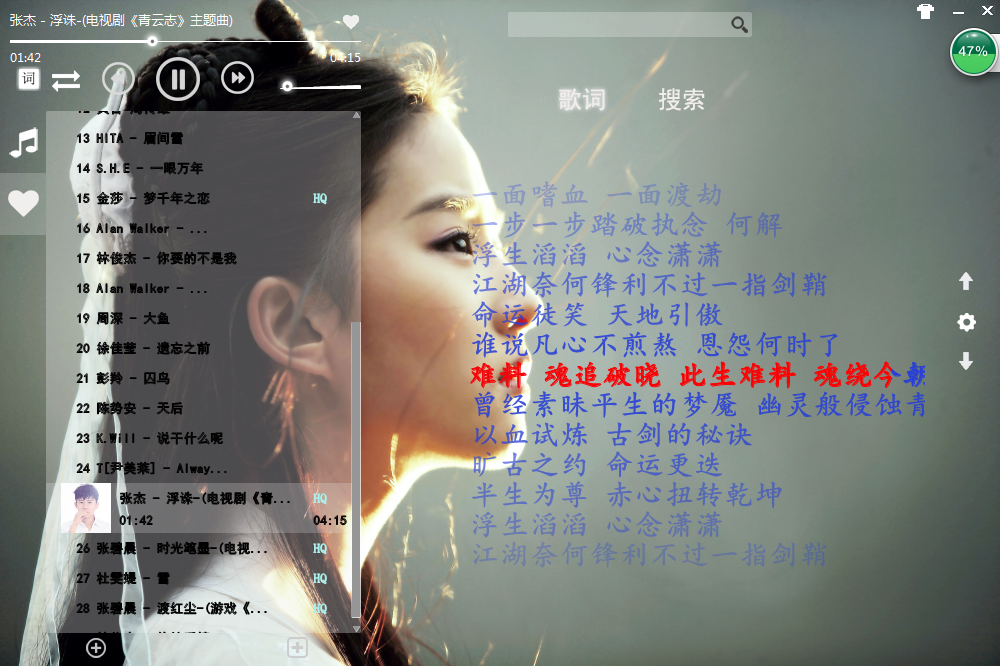
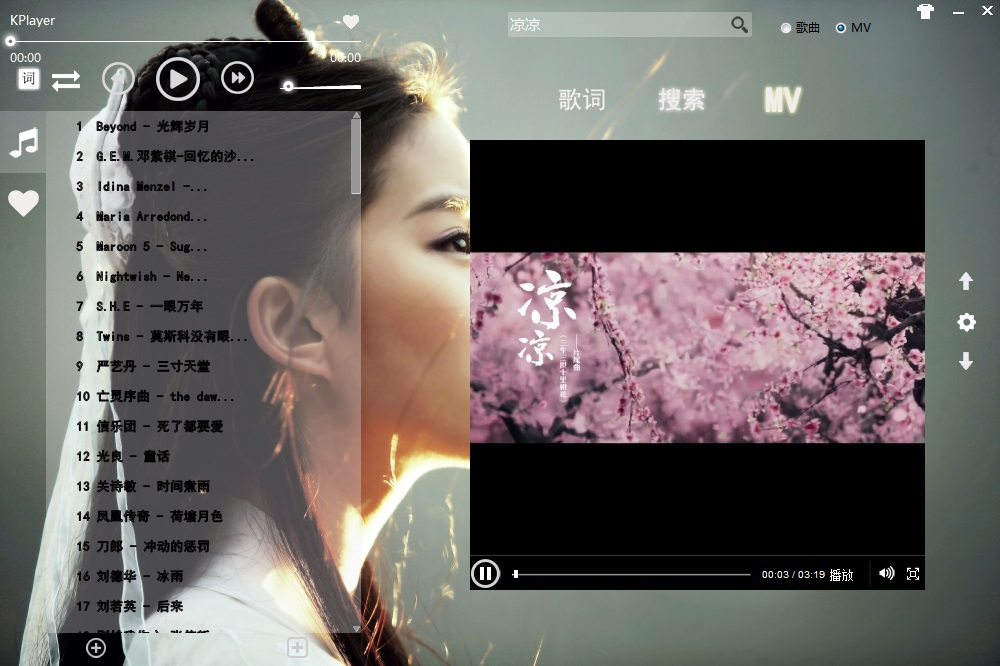
播放mv控制

diff --git a/KPlayer/src/com/xk/player/ui/PlayUI.java b/KPlayer/src/com/xk/player/ui/PlayUI.java
@@ -522,7 +522,10 @@ public class PlayUI implements BasicPlayerListener{
 			}
 		});
 		
-		mvword = new ColorLabel(shell, SWT.NONE, searchpic, searchnor);
+		Image mvpic=SWTResourceManager.getImage(PlayUI.class, "/images/mvpic.png");
+		Image mvnor=SWTResourceManager.getImage(PlayUI.class, "/images/mvnor.png");
+		
+		mvword = new ColorLabel(shell, SWT.NONE, mvnor, mvpic);
 		mvword.setBounds(745, 80, 70, 40);
 		
 		mvword.addMouseListener(new MouseAdapter() {
@@ -680,6 +683,9 @@ public class PlayUI implements BasicPlayerListener{
 		Image lrcnor=SWTResourceManager.getImage(PlayUI.class, "/images/lrcnor.png");
 		Image searchpic=SWTResourceManager.getImage(PlayUI.class, "/images/searchpic.png");
 		Image searchnor=SWTResourceManager.getImage(PlayUI.class, "/images/searchnor.png");
+		Image mvpic=SWTResourceManager.getImage(PlayUI.class, "/images/mvpic.png");
+		Image mvnor=SWTResourceManager.getImage(PlayUI.class, "/images/mvnor.png");
+		
 		if(num != 3) {
 			if(null != flash ) {
 				System.out.println("closing");
@@ -701,7 +707,7 @@ public class PlayUI implements BasicPlayerListener{
 		searchResult.setVisible(2 == num);
 		lrcword.setInner(1 == num ? lrcpic : lrcnor);
 		searchword.setInner(2 == num ? searchpic : searchnor);
-		mvword.setInner(3 == num ? searchpic : searchnor);
+		mvword.setInner(3 == num ? mvpic : mvnor);
 		lrcword.redraw();
 		searchword.redraw();
 		mvword.redraw();
